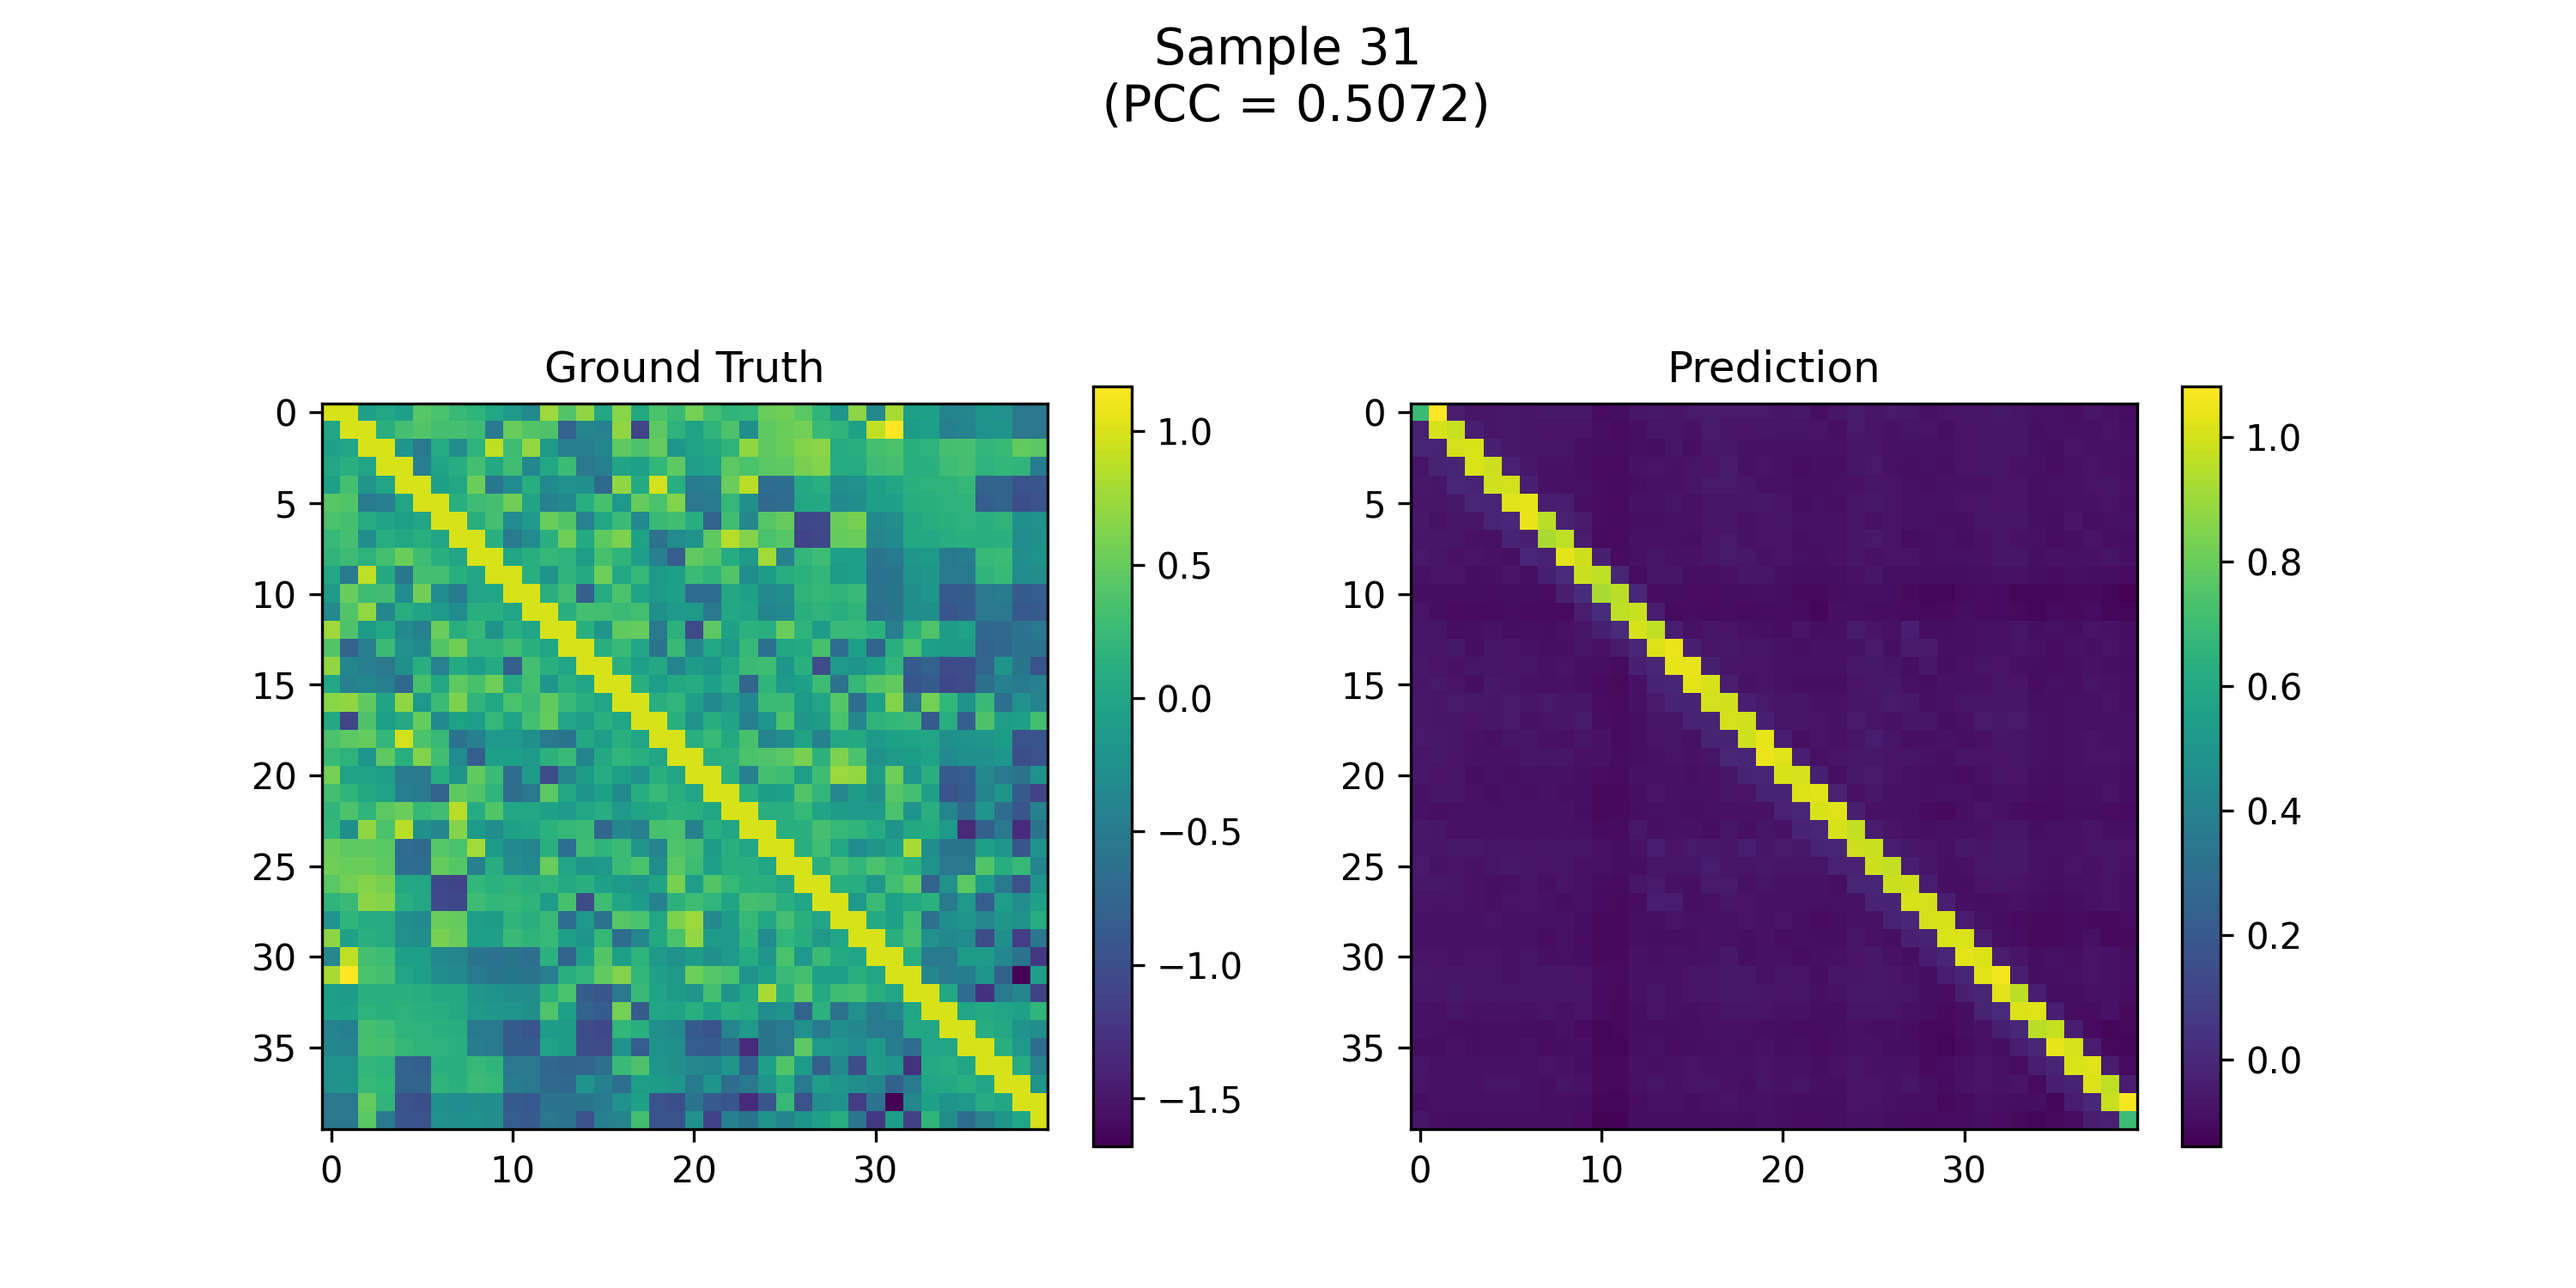
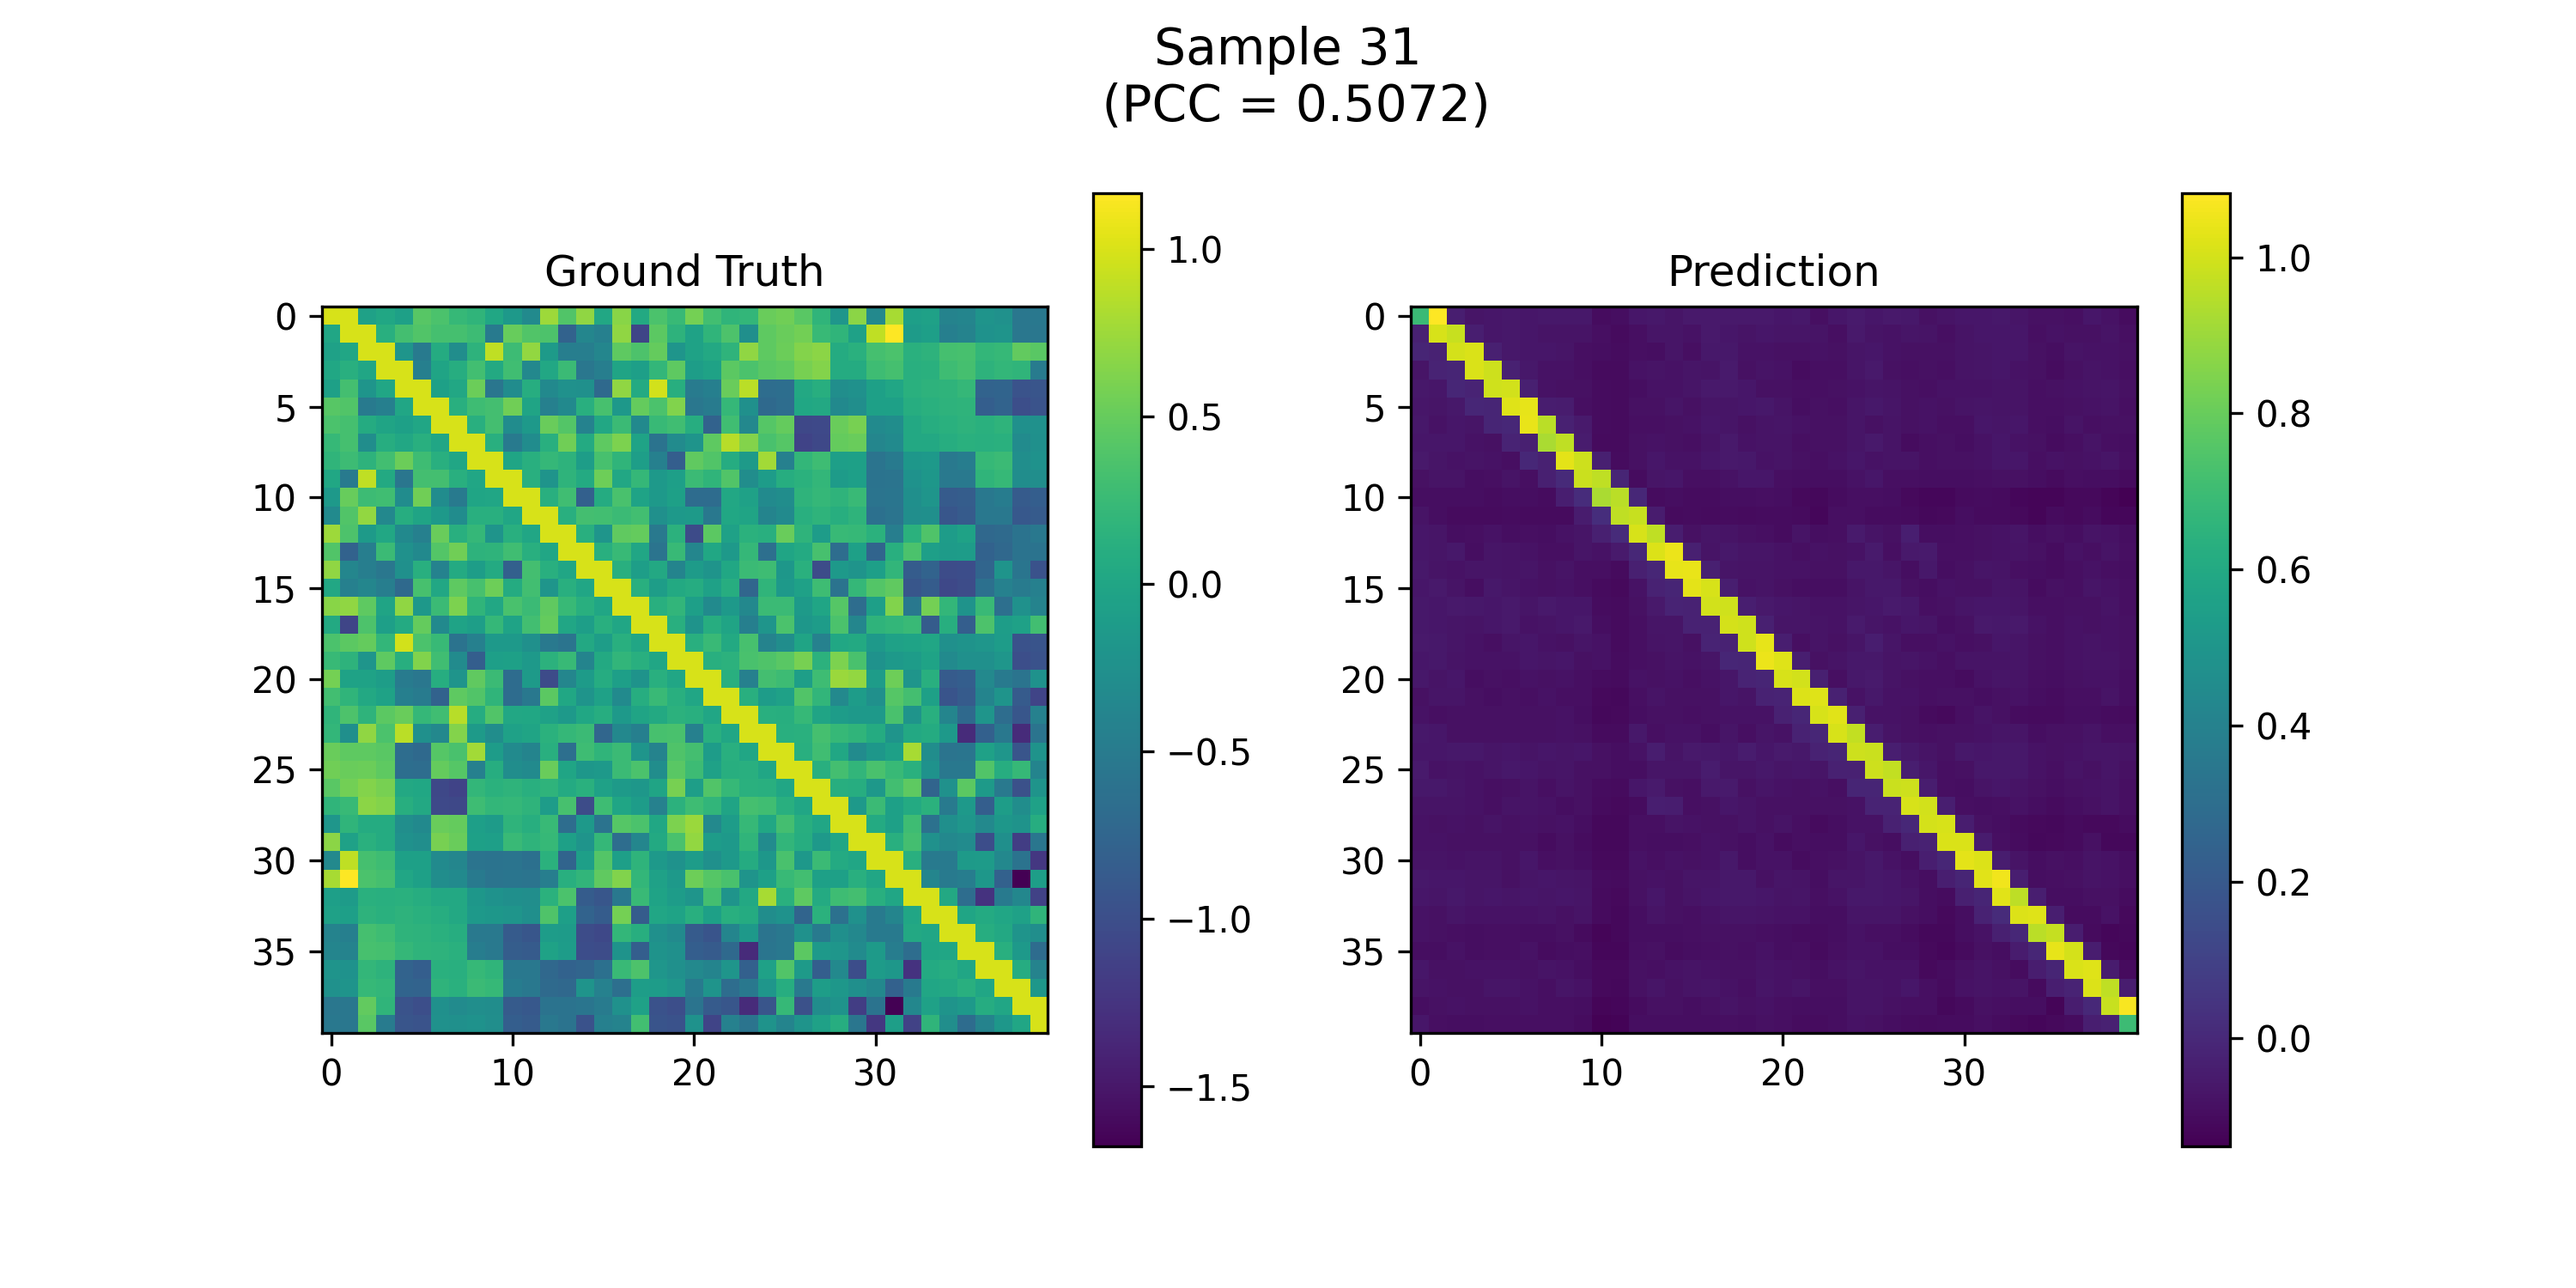
.

diff --git a/prediction_heads/pairhead.py b/prediction_heads/pairhead.py
@@ -2,11 +2,62 @@ import torch
 import torch.nn as nn
 import torch.nn.functional as F
 
-class PairHead(nn.Module):
+class PairHead(nn.Module): 
+    def __init__(self, input_size, proj_dim, pair_hidden_dim, conv_channels): 
+        super().__init__() 
+        self.pair_hidden_dim = pair_hidden_dim # project each embedding down to lower dimension 
+        
+        self.proj = nn.Sequential( 
+            nn.Linear(input_size, proj_dim), 
+            nn.LayerNorm(proj_dim), 
+            nn.GELU() ) 
+        
+        # learn pairwise interactions 
+        self.pair_mlp = nn.Sequential( 
+            nn.Linear(proj_dim * 3, pair_hidden_dim), 
+            nn.GELU(), 
+            nn.Linear(pair_hidden_dim, pair_hidden_dim), 
+            nn.GELU() ) 
+        
+        # conv refinement for learning 2D spatial structure 
+        self.refine = nn.Sequential( 
+            nn.Conv2d(pair_hidden_dim, conv_channels, kernel_size=3, padding=1), 
+            nn.GELU(), 
+            nn.Conv2d(conv_channels, 1, kernel_size=1) ) 
+        
+    def forward(self, h): 
+        B, L, D = h.shape # (B, L, D) 
+
+        # Project embeddings 
+        p = self.proj(h) # (B, L, proj_dim) 
+        
+        # Expand to pairwise dimensions 
+        pi = p.unsqueeze(2).expand(B, L, L, -1) # (B, L, L, proj_dim) 
+        pj = p.unsqueeze(1).expand(B, L, L, -1) # (B, L, L, proj_dim) 
+        
+        # Create pair features 
+        pair_feat = torch.cat([pi + pj, (pi - pj).abs(), pi * pj], dim=-1) # (B, L, L, 3*proj_dim) 
+        pair_feat = pair_feat.view(B, L*L, -1) # (B, L*L, 3*proj_dim)
+        
+        # Pass through MLP 
+        pair_out = self.pair_mlp(pair_feat) # (B, L*L, pair_hidden_dim) 
+        pair_out = pair_out.view(B, L, L, self.pair_hidden_dim).permute(0, 3, 1, 2) # (B, pair_hidden_dim, L, L) 
+        
+        # Conv refinement 
+        contact_map = self.refine(pair_out) # (B, 1, L, L) 
+        
+        # Collapse to a single scalar score per token embedding pair 
+        contact_map_flat = contact_map.view(B, L*L) # (B, L*L) 
+        
+        return contact_map_flat
+
+
+class PairHead2(nn.Module):
     def __init__(self, input_size, proj_dim, pair_hidden_dim, conv_channels):
         super().__init__()
 
         self.pair_hidden_dim = pair_hidden_dim
+        self.proj_dim = proj_dim
 
         # project each embedding down to lower dimension
         self.proj = nn.Sequential(
@@ -15,9 +66,11 @@ class PairHead(nn.Module):
             nn.GELU()
         )
 
+        self.dist_emb = nn.Embedding(512, proj_dim)
+
         # learn pairwise interactions
         self.pair_cnn = nn.Sequential(
-            nn.Conv2d(proj_dim*proj_dim, pair_hidden_dim, kernel_size=1),  # 1x1 conv to process features per pair
+            nn.Conv2d(2*proj_dim, pair_hidden_dim, kernel_size=1), 
             nn.GELU(),
             nn.Conv2d(pair_hidden_dim, pair_hidden_dim, kernel_size=1),
             nn.GELU()
@@ -36,21 +89,31 @@ class PairHead(nn.Module):
         # Project embeddings
         p = self.proj(h)  # (B, L, proj_dim)
 
-        # Create pair features as outer product 
-        pair_feat = torch.einsum('bid,bjd->bijd', p, p) # (B,L,L,D,D)
-        pair_feat = pair_feat.view(B, L, L, D*D).permute(0, 3, 1, 2)  # (B, D*D, L, L)
+        # Create pair features as difference and product of embeddings
+        diff = torch.abs(p[:, :, None, :] - p[:, None, :, :])
+        prod = p[:, :, None, :] * p[:, None, :, :] 
+        pair_feat = torch.cat([diff, prod], dim=-1)     # (1, L, L, 2*proj_dim)
+        pair_feat = F.layer_norm(pair_feat, pair_feat.shape[-1:])   # Normalize per pair to prevent magnitude bias
 
-        # Pass through CNN for pair representation learning
-        pair_out = self.pair_cnn(pair_feat)   # (B, pair_hidden_dim, L, L)
+        # Embed pairwise distances
+        pos = torch.arange(L, device=h.device)
+        dist = torch.abs(pos[None, :, None] - pos[None, None, :])  # (1, L, L)
+        dist = dist.clamp(max=self.dist_emb.num_embeddings - 1)
+        dist_emb = self.dist_emb(dist)  # (1, L, L, proj_dim)
+        dist_emb = torch.cat([dist_emb, dist_emb], dim=-1)  # (1, L, L, 2*proj_dim)
 
-        # CNN refinement
-        contact_map = self.refine_cnn(pair_out)  # (B, 1, L, L)
-        contact_map = contact_map.squeeze(1)     # (B, L, L)
+        # Combine dist embeddings wuth pairwise features
+        pair_feat = pair_feat + dist_emb  # (B, L, L, 2*proj_dim) 
+        pair_feat = pair_feat.permute(0, 3, 1, 2)   # (B, C, L, L)
+        
+        # Pass through CNNs
+        pair_out = self.pair_cnn(pair_feat) # (B, pair_hidden_dim, L, L)
+        contact_map = self.refine_cnn(pair_out).squeeze(1)  # (B, L, L)
 
         # Enforce symmetry
         contact_map = 0.5 * (contact_map + contact_map.transpose(1, 2))
 
-        # Flatten for scoring
-        contact_map_flat = contact_map.view(B, L*L)  # (B, L*L)
+        # Flatten
+        contact_map_flat = contact_map.view(B, L * L)
 
         return contact_map_flat

diff --git a/finetune_contact_map.py b/finetune_contact_map.py
@@ -44,6 +44,7 @@ def main():
     # ---------------- WandB ----------------
     parser.add_argument("--wandb_key", type=str, default=None, help="WandB API key")
     parser.add_argument("--wandb_project", type=str, default=None, help="WandB project name")
+    parser.add_argument("--wandb_entity", type=str, default=None, help="WandB entity key")
     parser.add_argument("--run_name", type=str, default='i_forgot_to_name', help="run name")
 
     # ---------------- Parameters ----------------
@@ -52,6 +53,7 @@ def main():
     parser.add_argument("--proj_dim", type=int, default=None, help="Projection dimension")
     parser.add_argument("--pair_hidden_dim", type=int, default=None, help="Hidden layer size in pair MLP")
     parser.add_argument("--conv_channels", type=int, default=None, help="Number of out channels refinement CNN layers")
+    parser.add_argument("--downweight_diag", type=int, default=False, help="Down-weight diagonals in loss")
 
 
     args = parser.parse_args()
@@ -78,6 +80,7 @@ def main():
     run = wandb.init(
             name    = args.run_name,
             reinit  = True, 
+            entity  = args.wandb_entity,
             project = args.wandb_project,
             config  = vars(args)
     )
@@ -111,8 +114,8 @@ def main():
         step_size = 3
         gamma = 0.1
     else:
-        step_size = args.epochs//6
-        gamma = 0.4
+        step_size = args.epochs//5
+        gamma = 0.3
 
     lr_scheduler = torch.optim.lr_scheduler.StepLR(optimizer, step_size=step_size, gamma=gamma)
     val_loss = 10000
@@ -152,11 +155,21 @@ def main():
                 vec2 = matrix.view(-1, 1, hiddens.size(-1)).repeat(1, hiddens.size(1), 1)
                 vec3 = torch.cat((vec2, vec1), dim=-1).reshape(-1, hiddens.size(-1)*2)
                 outs = task_layer(vec3.float()).unsqueeze(0).squeeze(-1)
+                loss = F.mse_loss(outs, scores)
 
             elif args.pred_head_arch == 'pairhead':
+                
                 outs = task_layer(hiddens.float())
+                
+                if args.downweight_diag:
+                    B, L, _ = hiddens.shape
+                    mask = torch.ones((B, L * L), device=outs.device)
+                    diag_idx = torch.arange(L, device=outs.device) * (L + 1)
+                    mask[:, diag_idx] = 0.1
+                    loss = F.mse_loss(outs*mask, scores*mask)
+                else:
+                    loss = F.mse_loss(outs, scores)
             
-            loss = F.mse_loss(outs, scores)
             loss.backward()
             optimizer.step()
 
@@ -219,6 +232,7 @@ def main():
             wandb.log({
                 'val_loss': this_val_loss_average,
                 'lr': current_lr,
+                'epoch': epoch,
             })
 
             if this_val_loss_average < val_loss:

diff --git a/analyze_performance.py b/analyze_performance.py
@@ -93,7 +93,7 @@ def main():
 
         # Big overall title
         fig.suptitle(f"Sample {idx_rep}\n (PCC = {rep_pcc:.4f})", fontsize=14)
-        fig.subplots_adjust(top=0.70)
+        fig.subplots_adjust(top=0.85)
 
         fig_name = os.path.join(args.run_dir, f"sample_{idx_rep}.png") 
         plt.savefig(fig_name, dpi=300) 
